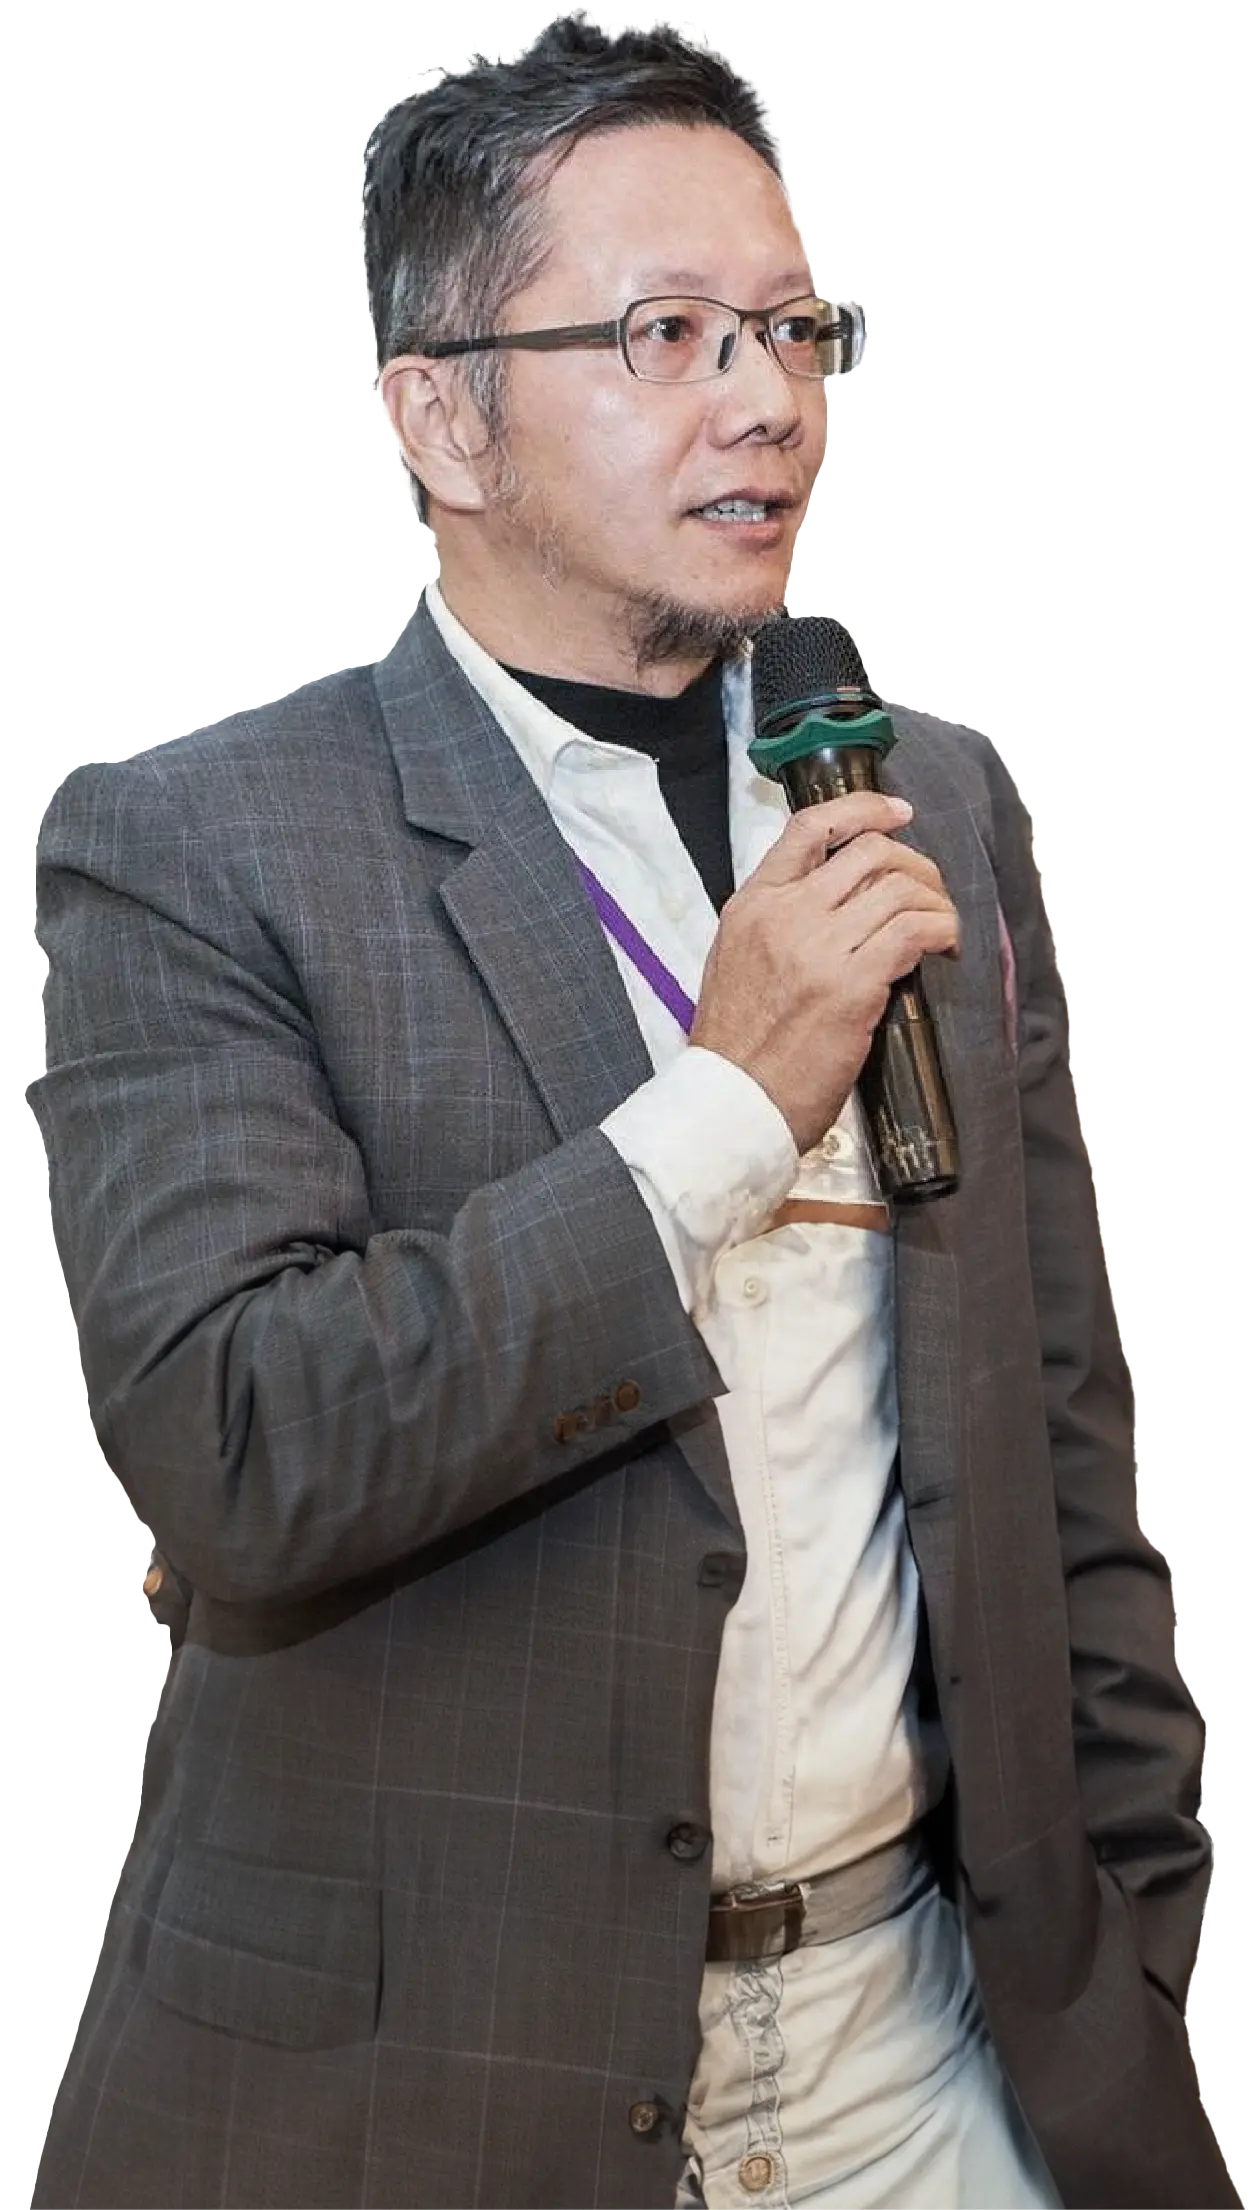
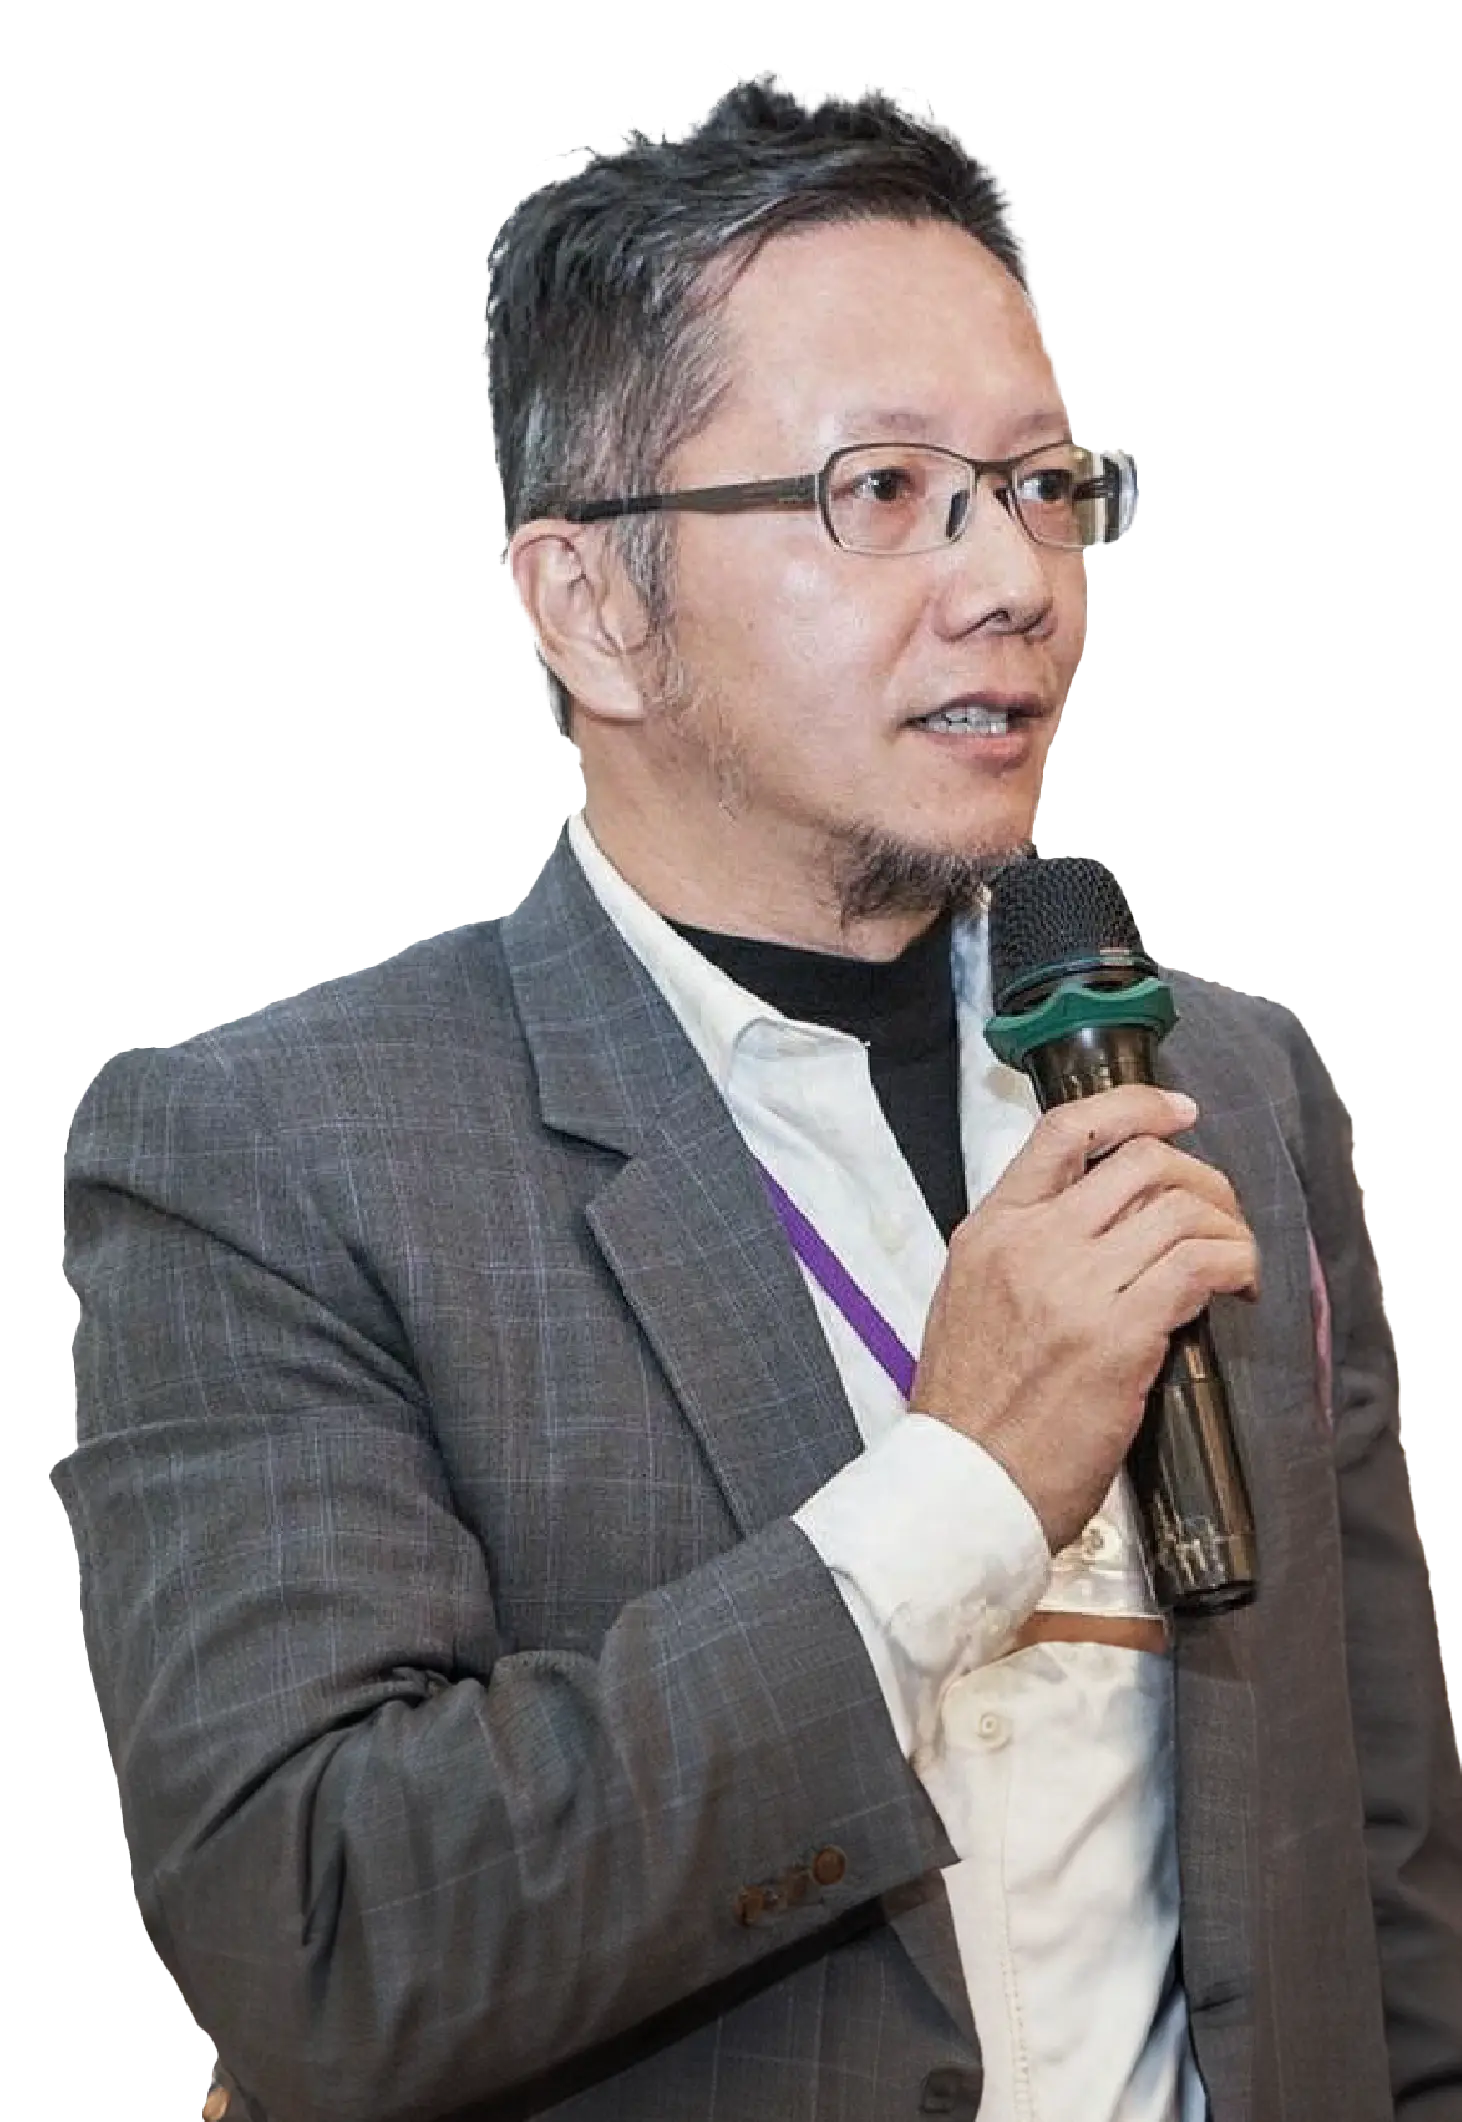
feat. 團隊換圖

diff --git a/src/views/team/teamThree.vue b/src/views/team/teamThree.vue
@@ -4,7 +4,7 @@
 
     <div class="left-box">
       <div class="img-box">
-        <img src="../../assets/img/team/three_img2.webp" alt="" srcset="" />
+        <img src="../../assets/img/team/three_img.webp" alt="" srcset="" />
       </div>
     </div>
     <div class="right-box">
@@ -12,7 +12,7 @@
       <div class="name-box">
         <div class="text">
           景觀大師 /
-          <div class="name">日禧設計</div>
+          <div class="name">LAURA HUANG</div>
         </div>
       </div>
       <div class="content-box">
@@ -55,7 +55,6 @@ import FullScreen from '@/components/full-screen/FullScreen.vue'
 import { onMounted, ref } from 'vue'
 import { useRouter } from 'vue-router'
 import { gsap } from 'gsap'
-import { SplitText } from 'gsap/SplitText'
 
 const router = useRouter()
 const goBack = () => router.push('/master/teamIndex')

diff --git a/src/assets/scss/team/_team-menu.scss b/src/assets/scss/team/_team-menu.scss
@@ -83,10 +83,10 @@
         }
       }
       .person-box {
-        width: 25vw;
+        width: 29vw;
         position: absolute;
         bottom: 0px;
-        left: 2vw;
+        left: -1vw;
         scale: 1.4;
         clip-path: inset(100% 0% 0% 0%);
         img {
@@ -96,14 +96,14 @@
         }
       }
       .person-box2 {
-        width: 25.8vw;
-        left: 1vw;
+        width: 28.4vw;
+        left: 0vw;
         scale: 1.4;
         clip-path: inset(100% 0% 0% 0%);
       }
       .person-box3 {
-        width: 21.5vw;
-        left: 4vw;
+        width: 27.5vw;
+        left: 0vw;
         scale: 1.4;
         clip-path: inset(100% 0% 0% 0%);
       }

diff --git a/src/views/team/teamTwo.vue b/src/views/team/teamTwo.vue
@@ -4,7 +4,7 @@
 
     <div class="left-box">
       <div class="img-box">
-        <img src="../../assets/img/team/two_img2.webp" alt="" srcset="" />
+        <img src="../../assets/img/team/two_img.webp" alt="" srcset="" />
       </div>
     </div>
     <div class="right-box">
@@ -73,7 +73,6 @@ import FullScreen from '@/components/full-screen/FullScreen.vue'
 import { onMounted, ref } from 'vue'
 import { useRouter } from 'vue-router'
 import { gsap } from 'gsap'
-import { SplitText } from 'gsap/SplitText'
 
 const router = useRouter()
 const goBack = () => router.push('/master/teamIndex')

diff --git a/src/assets/scss/team/_team-content.scss b/src/assets/scss/team/_team-content.scss
@@ -11,7 +11,7 @@
     justify-content: end;
 
     .img-box {
-      width: 28vw;
+      width: 33.5vw;
       align-items: center;
       align-self: center;
     }
@@ -119,7 +119,7 @@
 .team-three-view {
   .left-box {
     .img-box {
-      width: 20vw;
+      width: 31vw;
     }
   }
 
@@ -129,6 +129,9 @@
         &::after {
           right: -4.2vw;
         }
+      }
+      .name {
+        letter-spacing: 0.1em;
       }
     }
     .content-box {

diff --git a/src/views/team/teamOne.vue b/src/views/team/teamOne.vue
@@ -73,7 +73,6 @@ import FullScreen from '@/components/full-screen/FullScreen.vue'
 import { onMounted, ref } from 'vue'
 import { useRouter } from 'vue-router'
 import { gsap } from 'gsap'
-import { SplitText } from 'gsap/SplitText'
 
 const router = useRouter()
 const goBack = () => router.push('/master/teamIndex')
